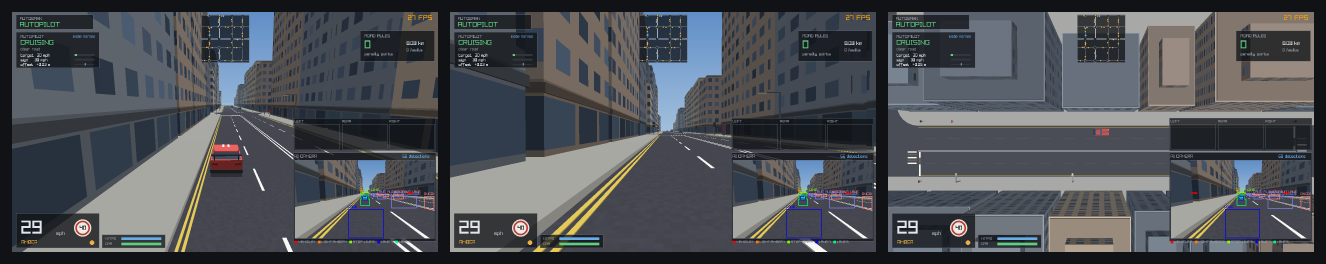
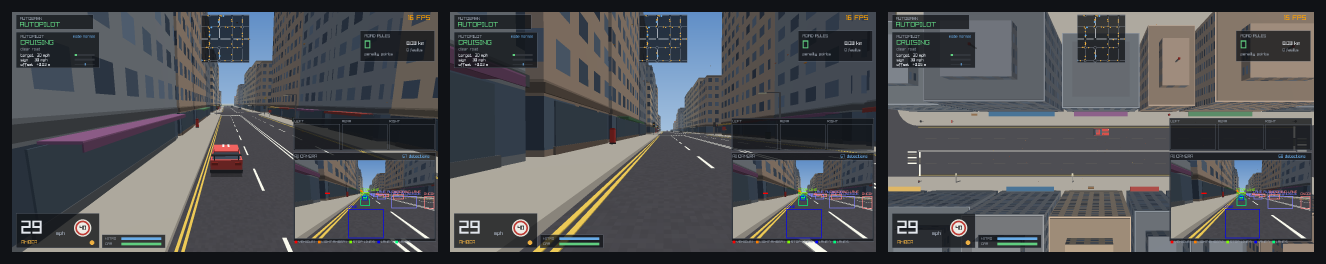
docs: the maps and the packs, and media to show them
The README gains the four maps, the packs that hold three of them,
what they cost and how to skip the cost. CLAUDE.md sets out what a map
is and is not, the seasons, the dressing and the packs, and the two
things about the existing maps that look like mistakes and are not.

The media tool makes a sheet of every map from the driver's seat, and
the garage sheet runs four across now there are twelve cars in it. The
GIF palette carries the city's autumn rather than a summer no clip
shows any more. All media regenerated.

The collision broad phase goes by the lengths of the two vehicles
rather than a fixed eight metres, which two buses nose to tail were
further apart than.

diff --git a/tools/demogen/main.go b/tools/demogen/main.go
@@ -30,6 +30,7 @@ import (
 	"github.com/danielriddell21/crucible/record"
 
 	"github.com/danielriddell21/autobahn/internal/autopilot"
+	"github.com/danielriddell21/autobahn/internal/city"
 	"github.com/danielriddell21/autobahn/internal/game"
 	"github.com/danielriddell21/autobahn/internal/mathx"
 	"github.com/danielriddell21/autobahn/internal/sim"
@@ -68,6 +69,7 @@ func items() []item {
 		{"junction", "junction.gif", "the autopilot stopping at a red light", clipJunction},
 		{"police", "police.gif", "a pursuit, earned by driving badly", clipPolice},
 		{"city", "city.png", "four seeds from above, showing the layout variety", sheetCity},
+		{"maps", "maps.png", "every map from the driver's seat, each in its season", sheetMaps},
 		{"cameras", "cameras.png", "the three viewpoints on one scene", sheetCameras},
 		{"garage", "garage.png", "every car the garage offers, each in its own paint", sheetGarage},
 	}
@@ -311,6 +313,30 @@ func sheetCity(cfg config) error {
 	})
 }
 
+func sheetMaps(cfg config) error {
+	// One frame of each map from behind the car, which is how a player meets
+	// them: the place, its season and what is on its roads.
+	maps := city.Maps()
+	return game.WithWindow(cfg.opts(cfg.seed), func(first *game.Game) error {
+		cells := make([]image.Image, 0, len(maps))
+		for i, m := range maps {
+			g := first
+			if i > 0 {
+				o := cfg.opts(cfg.seed)
+				o.Map = m
+				g = game.New(o)
+				defer g.Close()
+			}
+			g.SetCameraMode(game.CameraChase)
+			g.ShowHUD(false)
+			settle(g, 260)
+			cells = append(cells, demo.Downscale(g.Snapshot(), cfg.scale))
+		}
+		sheet := demo.Montage(cells, 2, 12, color.RGBA{R: 16, G: 18, B: 22, A: 255})
+		return writePNG(cfg.path("maps.png"), sheet)
+	})
+}
+
 func sheetCameras(cfg config) error {
 	// Shows one scene from each viewpoint.
 	return game.WithWindow(cfg.opts(cfg.seed), func(g *game.Game) error {
@@ -342,7 +368,7 @@ func sheetGarage(cfg config) error {
 			}
 			cells = append(cells, shot)
 		}
-		sheet := demo.Montage(cells, 3, 12, color.RGBA{R: 16, G: 18, B: 22, A: 255})
+		sheet := demo.Montage(cells, 4, 12, color.RGBA{R: 16, G: 18, B: 22, A: 255})
 		return writePNG(cfg.path("garage.png"), sheet)
 	})
 }

diff --git a/internal/game/render.go b/internal/game/render.go
@@ -19,11 +19,9 @@ import (
 // annotation boxes, so nothing in the scene can be mistaken for a detection.
 var (
 	colSky      = rl.NewColor(139, 174, 206, 255)
-	colGround   = rl.NewColor(92, 112, 76, 255)
 	colAsphalt  = rl.NewColor(62, 62, 68, 255)
 	colSidewalk = rl.NewColor(150, 147, 140, 255)
 	colKerb     = rl.NewColor(176, 172, 164, 255)
-	colPark     = rl.NewColor(84, 124, 70, 255)
 	colLinePale = rl.NewColor(222, 220, 212, 255)
 	// Yellow paint in Britain means a parking restriction at the kerb, never a
 	// lane divider, so it only ever appears as the double lines by the pavement.
@@ -41,13 +39,6 @@ var (
 	colTrunk    = rl.NewColor(92, 74, 58, 255)
 	colSkid     = rl.NewColor(18, 18, 20, 120)
 	colShadow   = rl.NewColor(0, 0, 0, 86)
-
-	leafShades = [4]rl.Color{
-		rl.NewColor(70, 116, 62, 255),
-		rl.NewColor(86, 128, 66, 255),
-		rl.NewColor(62, 104, 70, 255),
-		rl.NewColor(104, 132, 72, 255),
-	}
 
 	buildingShades = [6]rl.Color{
 		rl.NewColor(168, 160, 146, 255),
@@ -627,13 +618,18 @@ func drawBoxes(boxes []annotate.Box, labels bool) {
 // detection boxes are not among them: they are flat, and go in exactly as
 // they are, from [BoxColours].
 func PaletteBases() []color.RGBA {
+	// The media is made in the city, so it is the city's season that the
+	// palette has to carry.
+	lk := lookFor(city.MapCity.Season())
 	key := [...]rl.Color{
-		colSky, colGround, colAsphalt, colSidewalk, colKerb, colPark,
+		colSky, lk.ground, colAsphalt, colSidewalk, colKerb, lk.park,
 		colLinePale, colLineWarm, colPole, colStopFace, colSignFace, colGlass,
 		colTyre, hudPanel, hudText, colPoliceBody, colBeaconBlue, colBeaconRed,
+		colShopLit, colWood, colStone,
 	}
-	out := make([]color.RGBA, 0, len(key)+len(buildingShades)+len(carPaints)+len(leafShades))
-	for _, set := range [][]rl.Color{key[:], buildingShades[:], carPaints[:], leafShades[:]} {
+	sets := [][]rl.Color{key[:], buildingShades[:], carPaints[:], lk.leaves[:], roofShades[:]}
+	var out []color.RGBA
+	for _, set := range sets {
 		for _, c := range set {
 			out = append(out, toRGBAColor(c))
 		}

diff --git a/internal/sim/parked_test.go b/internal/sim/parked_test.go
@@ -4,6 +4,7 @@ import (
 	"strings"
 	"testing"
 
+	"github.com/danielriddell21/autobahn/internal/city"
 	"github.com/danielriddell21/autobahn/internal/mathx"
 	"github.com/danielriddell21/autobahn/internal/sim"
 )
@@ -57,5 +58,50 @@ func TestEveryParkedCarIsACarPeoplePark(t *testing.T) {
 	}
 	if len(shapes) < 3 {
 		t.Errorf("only %d shapes of car are parked", len(shapes))
+	}
+}
+
+func TestACarDrivenIntoTheSeaIsPutBackOnTheRoad(t *testing.T) {
+	var coast city.Map = -1
+	for _, m := range city.Maps() {
+		c := city.NewGrowing(city.ParamsFor(m, 7))
+		if _, _, ok := c.Shoreline(); ok {
+			coast = m
+		}
+	}
+	if coast < 0 {
+		t.Skip("no map has a coast")
+	}
+	w := sim.NewWorld(sim.Config{Seed: 7, Map: coast})
+	_, sea, _ := w.City.Shoreline()
+	w.Player.Pos = mathx.V(w.Player.Pos.X, sea+25)
+	w.Update(sim.Controls{}, 1.0/60)
+	if w.City.AtSea(w.Player.Pos) {
+		t.Fatalf("the car is still in the sea at %v", w.Player.Pos)
+	}
+	pr := w.City.Project(w.Player.Pos)
+	if !pr.Valid || w.Player.Pos.DistTo(pr.Lane.Point(pr.S)) > 0.5 {
+		t.Errorf("the car was put at %v, which is not on a lane", w.Player.Pos)
+	}
+}
+
+// Two long vehicles touching end to end have their middles further apart
+// than any fixed distance sized for cars.
+func TestTwoBusesNoseToTailAreStillTestedForACollision(t *testing.T) {
+	w := sim.NewWorld(sim.Config{Seed: 7, Traffic: 2, Police: 0})
+	if len(w.Agents) < 2 {
+		t.Skip("the world did not place two cars")
+	}
+	bus := sim.BodyOf(sim.Bus).Spec
+	a, b := w.Agents[0], w.Agents[1]
+	a.V.Spec, b.V.Spec = bus, bus
+	a.V.Pos, a.V.Yaw = mathx.V(5000, 5000), 0
+	// Overlapping by a metre, lengthways.
+	b.V.Pos, b.V.Yaw = mathx.V(5000+2*bus.HalfLength-1, 5000), 0
+	w.Player.Pos = mathx.V(-5000, -5000)
+	before := b.V.Pos.DistTo(a.V.Pos)
+	w.Update(sim.Controls{}, 1.0/60)
+	if _, depth, hit := a.V.Box().Penetration(b.V.Box()); hit && depth > 0.5 {
+		t.Errorf("two buses %.1f m apart were left %.2f m inside each other", before, depth)
 	}
 }

diff --git a/internal/game/coast.go b/internal/game/coast.go
@@ -36,31 +36,6 @@ var (
 // seaReach is how far out the water is drawn, in metres: well past the fog.
 const seaReach float32 = 6000
 
-// townLook is how a map's buildings are finished.
-type townLook struct {
-	// facades are the colours the walls are painted.
-	facades *[6]rl.Color
-	// shops is the share of buildings with a shop on the ground floor; the
-	// rest are houses, with a front door.
-	shops float32
-	// pitched is the share of low buildings with a pitched roof rather than
-	// a flat one.
-	pitched float32
-}
-
-// townFor returns how a map's buildings are finished.
-func townFor(m city.Map) townLook {
-	switch m {
-	case city.MapSeaside:
-		return townLook{facades: &seasideShades, shops: 0.6, pitched: 0.6}
-	case city.MapVillage:
-		return townLook{facades: &villageShades, shops: 0.22, pitched: 0.9}
-	case city.MapMotorway:
-		return townLook{facades: &shedShades, shops: 0.5, pitched: 0.12}
-	}
-	return townLook{facades: &buildingShades, shops: 1, pitched: 0.6}
-}
-
 // Seafront layout, in metres, measured from the kerb of the front.
 const (
 	// promDepth is the paved promenade, with the rail along its far edge.

diff --git a/internal/sim/world.go b/internal/sim/world.go
@@ -670,11 +670,19 @@ func turnAcrossTraffic() city.TurnKind {
 	return city.TurnLeft
 }
 
+// inReach reports whether two vehicles are near enough to be worth testing
+// for a collision. It goes by their lengths rather than a fixed distance: two
+// buses nose to tail have their middles further apart than two cars could
+// ever be while touching.
+func inReach(a, b *Vehicle) bool {
+	return a.Pos.DistTo(b.Pos) <= a.Spec.HalfLength+b.Spec.HalfLength+a.Spec.HalfWidth+b.Spec.HalfWidth
+}
+
 func (w *World) resolveCollisions() {
 	// Player against traffic.
 	pb := w.Player.Box()
 	for _, a := range w.Agents {
-		if w.Player.Pos.DistTo(a.V.Pos) > 8 {
+		if !inReach(w.Player, a.V) {
 			continue
 		}
 		if axis, depth, hit := pb.Penetration(a.V.Box()); hit {
@@ -695,7 +703,7 @@ func (w *World) resolveCollisions() {
 	// Traffic against traffic, so queues do not interpenetrate.
 	for i, a := range w.Agents {
 		for _, b := range w.Agents[i+1:] {
-			if a.V.Pos.DistTo(b.V.Pos) > 8 {
+			if !inReach(a.V, b.V) {
 				continue
 			}
 			if axis, depth, hit := a.V.Box().Penetration(b.V.Box()); hit {

diff --git a/internal/game/dressing.go b/internal/game/dressing.go
@@ -41,6 +41,31 @@ var (
 	colBronze    = rl.NewColor(84, 108, 98, 255)
 )
 
+// townLook is how a map's buildings are finished.
+type townLook struct {
+	// facades are the colours the walls are painted.
+	facades *[6]rl.Color
+	// shops is the share of buildings with a shop on the ground floor; the
+	// rest are houses, with a front door.
+	shops float32
+	// pitched is the share of low buildings with a pitched roof rather than
+	// a flat one.
+	pitched float32
+}
+
+// townFor returns how a map's buildings are finished.
+func townFor(m city.Map) townLook {
+	switch m {
+	case city.MapSeaside:
+		return townLook{facades: &seasideShades, shops: 0.6, pitched: 0.6}
+	case city.MapVillage:
+		return townLook{facades: &villageShades, shops: 0.22, pitched: 0.9}
+	case city.MapMotorway:
+		return townLook{facades: &shedShades, shops: 0.5, pitched: 0.12}
+	}
+	return townLook{facades: &buildingShades, shops: 1, pitched: 0.6}
+}
+
 // roofKind is what a building has on top.
 type roofKind int
 

diff --git a/CLAUDE.md b/CLAUDE.md
@@ -1,8 +1,9 @@
 # autobahn — Claude Code instructions
 
-autobahn is a 3D driving game in Go: a procedurally generated British city with
-traffic, signals, road rules and police, and an autopilot that sees the world
-only through a camera. It is built on raylib, not Ebiten — the only game in the
+autobahn is a 3D driving game in Go: procedurally generated British places — a
+city, a seaside town, a village and a motorway town — with traffic, signals,
+road rules and police, and an autopilot that sees the world only through a
+camera. It is built on raylib, not Ebiten — the only game in the
 family that is — and on [crucible](https://github.com/danielriddell21/crucible)
 for everything that is engine rather than game.
 
@@ -61,12 +62,63 @@ frontier of unfinished junctions, so anything walking the whole city has to skip
 those that are not `City.Complete`. And `EnsureAround` is called every frame, so
 it must cost nothing when the car has not reached new ground.
 
+## Maps are presets, never generators
+
+There are four maps, and each is `internal/city` asked for something
+different: `city.ParamsFor` is the only place their generation differs. A map
+also has a season, a traffic mix (`mixes` in `internal/sim`) and a look
+(`townFor` and `lookFor` in `internal/game`). Nothing about a map may be a
+special case inside the generator; if a new place needs something the
+generator cannot do, it becomes a parameter, as the coast, the speed limits
+and the spacing of the main roads did.
+
+That is what keeps the growth rule cheap to hold. `grow_test.go` runs its
+comparison for every map, so a new one is held to it the moment it exists.
+
+Two things about the existing maps look like mistakes and are not:
+
+* `ParamsFor(MapCity)` must stay equal to `DefaultParams`. The city grades
+  its grid lines lopsidedly, with no collectors below zero, and the gate's
+  numbers are measured on that. The other maps set `Balanced`.
+* The motorway town is nearly all traffic lights. A roundabout between two
+  dual carriageways is where the autopilot comes to grief, and a town built
+  of them scored five to nine penalty points against one with lights.
+
+## Seasons
+
+A map is driven in one season and keeps it. The season dresses the scene and,
+in winter, takes grip away: `sim` fits every vehicle to the road it is on, and
+traffic drives to it. The autopilot is told nothing, because it could not see
+it. Whatever falls from the sky is stored nowhere: each piece is worked out
+from its number and the clock.
+
+Anything a season or a map draws must keep off the vision system's colours,
+and must never be made brighter than it was defined. A pale colour scaled past
+full wraps round, and came out cyan once; `crownShade` and the season tests
+are there because of it.
+
+## Dressing
+
+Roofs, shop fronts, street furniture, park paths, fields and the beach are
+worked out in `internal/game` from where they stand, the way the trees always
+were, and none of it is annotated. Parked cars are the exception: they are
+solid, so they live in `internal/city` and `sim` collides with them.
+
+## Packs
+
+`internal/pack` groups maps and garage cars into the base game and the packs
+that add to it. A map or a car no pack lists belongs to the base game, so
+nothing is locked by accident. A pack unlocks when the bounty banked over a
+player's career reaches its price, and only a pursuit the player drove all of
+counts: `bountyMeter` marks one the autopilot touched. The menus never offer
+what is locked; `-unlock-all` and the tools bypass it.
+
 ## eval is a gate, not a report
 
 `just eval` drives many cities headlessly and scores the result. `just gate`
-is the same thing with a pass mark, and runs in `just ci` and in the workflow,
-so a change that makes the autopilot worse fails the build. Keep the two pass
-marks the same.
+is the same thing with a pass mark, on every map, and runs in `just ci` and in
+the workflow, so a change that makes the autopilot worse anywhere fails the
+build. Keep the two pass marks the same.
 
 Its numbers are noisy: judge a change over at least twenty seeds, and remember
 that changing city generation changes which cities the seeds produce, so a

diff --git a/README.md b/README.md
@@ -31,6 +31,31 @@ screen, or with `-host` and `-join`.
 
 *The autopilot at the wheel. The panel in the corner is the image it is reading.*
 
+## Maps and packs
+
+There are four places to drive, each in its own season. All of them are the
+same generator asked for something different, so none of them runs out: the
+seaside stops at the sea, and nothing stops anywhere else.
+
+| Map | Season | | Pack |
+| --- | --- | --- | --- |
+| `city` | autumn | where it began: towers, shop fronts, leaves coming down | base |
+| `seaside` | summer | painted terraces, a promenade, a beach and the sea down one side | coast |
+| `village` | spring | stone cottages on long lanes, with hedged fields between them | country |
+| `motorway` | winter | dual carriageways at fifty, under snow, with less grip in a bend | motorway |
+
+![Every map from the driver's seat](docs/media/maps.png)
+
+The city is the base game. The other three come in packs, each with cars of
+its own for the garage, and a pack unlocks once the bounty you have banked
+across every drive reaches its price: £3,000 for the coast, £9,000 for the
+country, £18,000 for the motorway. Bounty is banked by getting away from the
+police, and only counts if you drove the whole pursuit yourself. The title
+screen chooses the map and shows how far along each pack is.
+
+`-map` names the place on the command line. `-unlock-all`, or
+`"unlockAll": true` in the settings file, offers everything without earning it.
+
 ## Install
 
 ### Homebrew (macOS)
@@ -42,13 +67,14 @@ brew install --cask danielriddell21/tap/autobahn
 ```sh
 just run              # drive it yourself
 just drive            # hand the car to the autopilot
+just eval -map all    # score the autopilot on every map
 just ci               # lint + test + build + the boundary check + the autopilot gate
 ```
 
 Without `just`, Linux needs `-tags x11`: `go run -tags x11 ./cmd/autobahn`.
 
-Everything is generated in code, with no asset files, and the city has no edge:
-it is built outward as you drive. The engine underneath is
+Everything is generated in code, with no asset files, and a map is not a
+fixed size: it is built outward as you drive. The engine underneath is
 [crucible](https://github.com/danielriddell21/crucible).
 
 ## Documentation
